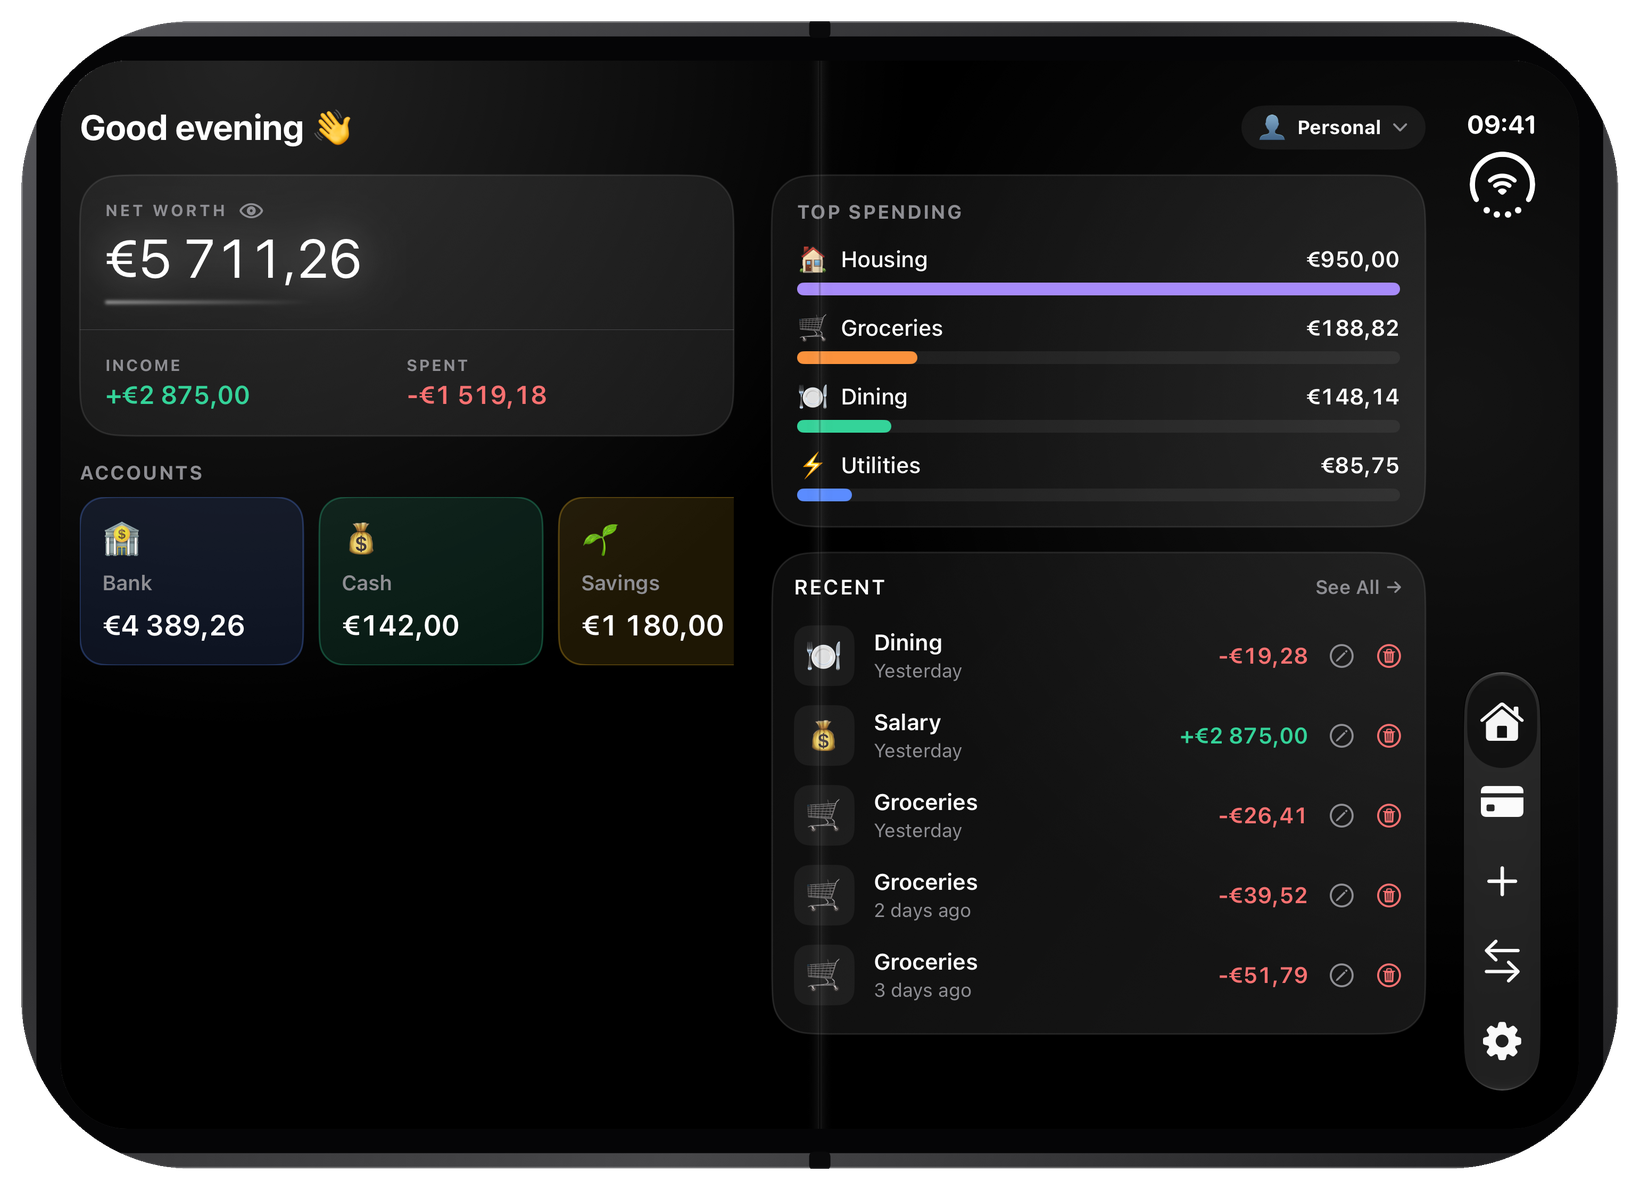
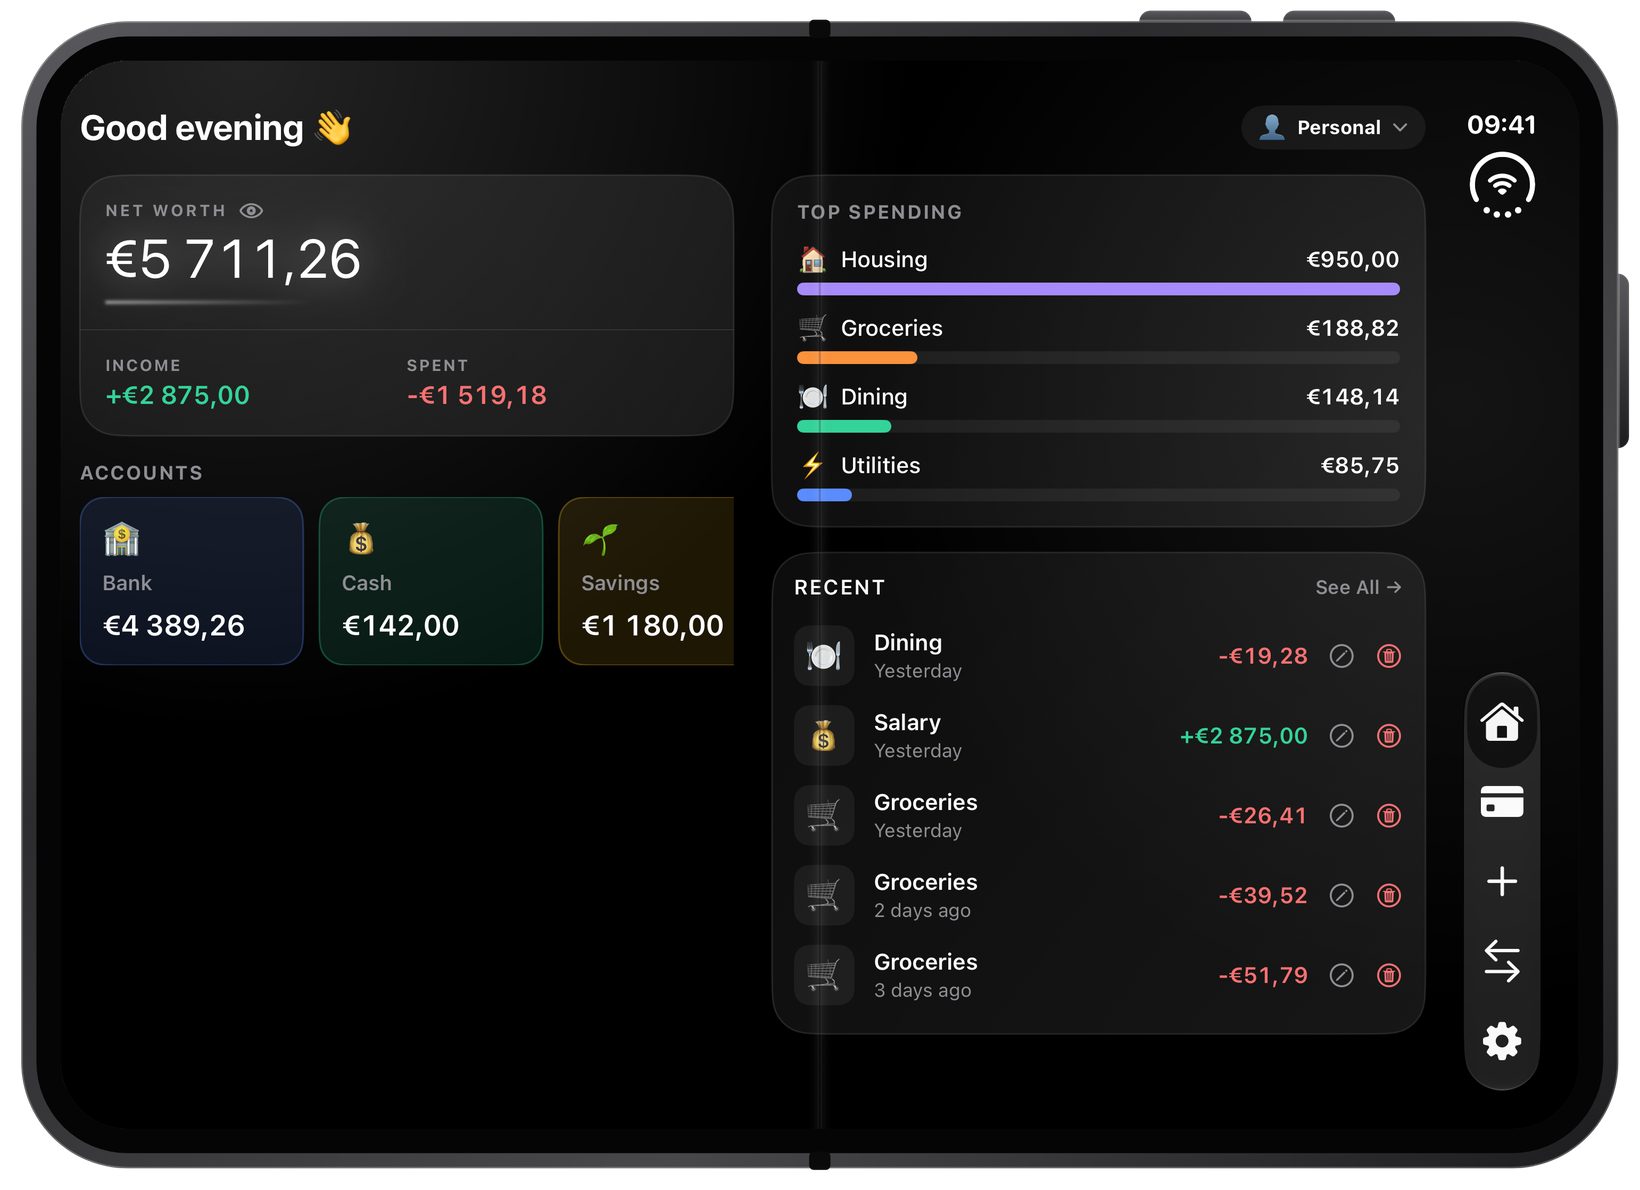
Website: Duo open phone back to its original frame; the base only appears once the cover stands edge-on, so nothing shows around the cover

diff --git a/site/index.html b/site/index.html
@@ -187,9 +187,9 @@ footer .soc svg{width:20px;height:20px;fill:none;stroke:currentColor;stroke-widt
 .duo-dev{--dw:720px;--zs:1.15;--t:.9s cubic-bezier(.65,0,.35,1);position:relative;width:var(--dw);height:calc(var(--dw)*.7255);margin:calc(var(--dw)*.7255*(var(--zs) - 1)/2) 0;perspective:calc(var(--dw)*3);transform:scale(var(--zs)) translateX(-25%);transition:transform var(--t);will-change:transform;cursor:pointer;-webkit-tap-highlight-color:transparent}
 .duo-dev.open{transform:none}
 .duo-dev .half{position:absolute;top:0;left:50%;width:50%;height:100%}
-.duo-dev .r{visibility:hidden;transition:visibility 0s .78s}   /* on/off in one frame, and only once the cover is a few degrees
-   off the base: the two frame drawings differ at the corners and buttons, so near flat the base would peek out */
-.duo-dev.open .r{visibility:visible;transition-delay:.12s}
+.duo-dev .r{visibility:hidden;transition:visibility 0s .45s}   /* the base only exists once the cover stands edge-on
+   (halfway, .45s): while the cover is over it, none of its corners or buttons can show around it */
+.duo-dev.open .r{visibility:visible}
 .duo-dev .cover{transform-origin:left center;transform-style:preserve-3d;transition:transform var(--t);will-change:transform}
 .duo-dev.open .cover{transform:rotateY(-180deg)}
 .duo-dev .face{position:absolute;inset:0;backface-visibility:hidden;-webkit-backface-visibility:hidden}

diff --git a/templates/home.html b/templates/home.html
@@ -166,9 +166,9 @@ footer .soc svg{width:20px;height:20px;fill:none;stroke:currentColor;stroke-widt
 .duo-dev{--dw:720px;--zs:1.15;--t:.9s cubic-bezier(.65,0,.35,1);position:relative;width:var(--dw);height:calc(var(--dw)*.7255);margin:calc(var(--dw)*.7255*(var(--zs) - 1)/2) 0;perspective:calc(var(--dw)*3);transform:scale(var(--zs)) translateX(-25%);transition:transform var(--t);will-change:transform;cursor:pointer;-webkit-tap-highlight-color:transparent}
 .duo-dev.open{transform:none}
 .duo-dev .half{position:absolute;top:0;left:50%;width:50%;height:100%}
-.duo-dev .r{visibility:hidden;transition:visibility 0s .78s}   /* on/off in one frame, and only once the cover is a few degrees
-   off the base: the two frame drawings differ at the corners and buttons, so near flat the base would peek out */
-.duo-dev.open .r{visibility:visible;transition-delay:.12s}
+.duo-dev .r{visibility:hidden;transition:visibility 0s .45s}   /* the base only exists once the cover stands edge-on
+   (halfway, .45s): while the cover is over it, none of its corners or buttons can show around it */
+.duo-dev.open .r{visibility:visible}
 .duo-dev .cover{transform-origin:left center;transform-style:preserve-3d;transition:transform var(--t);will-change:transform}
 .duo-dev.open .cover{transform:rotateY(-180deg)}
 .duo-dev .face{position:absolute;inset:0;backface-visibility:hidden;-webkit-backface-visibility:hidden}

diff --git a/generator.py b/generator.py
@@ -139,7 +139,7 @@ def _duo_cover(im):
     return half
 
 def _build_duo():
-    from PIL import Image, ImageChops, ImageDraw
+    from PIL import Image, ImageDraw
     base = pathlib.Path(__file__).parent / "appearances"
     for state, frame, shot, xy, radius, corners in DUO:
         # ponytail: an appearance without its own Duo captures borrows espresso's; capture them to fix
@@ -157,11 +157,6 @@ def _build_duo():
         im.alpha_composite(f)
         if state == "closed":
             im = _duo_cover(im)
-        else:   # bare body only (x 40..3040, y 40..2195), with the cover's rounder corners (320, not the
-                # frame's 200): otherwise its buttons and squarer corners poke out past the cover as it swings
-            keep = Image.new("L", im.size)
-            ImageDraw.Draw(keep).rounded_rectangle((40, 40, 3040, 2195), 320, fill=255)
-            im.putalpha(ImageChops.multiply(im.getchannel("A"), keep))
         im.resize((round(im.width * DUO_SCALE), round(im.height * DUO_SCALE)), Image.LANCZOS).save(
             dst, "WEBP", lossless=True, quality=100, method=6)
 
